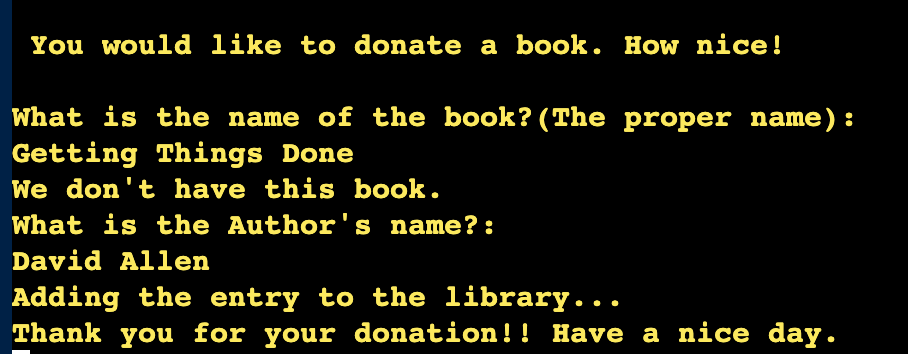
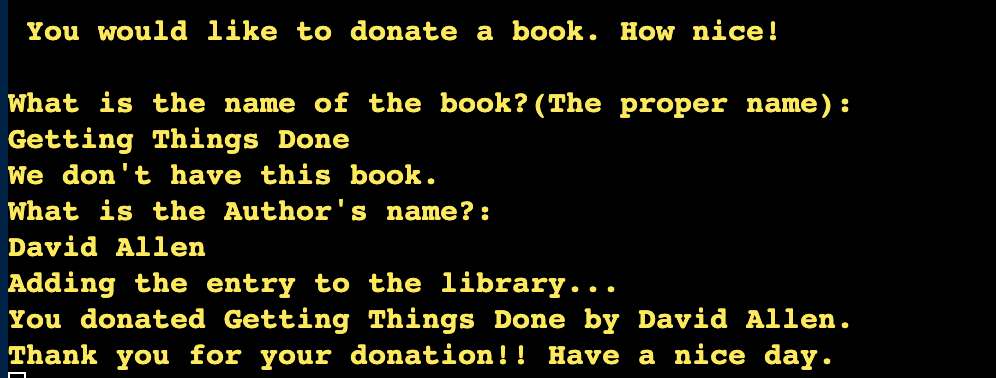
Update README photos and features.

Changed region(s): [[0.0, 0.0, 0.9559, 1.0]]

diff --git a/README.md b/README.md
@@ -60,6 +60,45 @@ The Bookkeeping service is a command line interface application that uses the He
   ### Flowchart
   ![Flowchart](/readme-images/bookkeeping.drawio%20.png)
   Flow of how the program runs.
+
+  ## Features 
+  ### General features 
+  <br>
+
+   The program starts with a welcome message. This area outlines what the service does and how the user can benefit from it. 
+  ![The welcome screen](/readme-images/welcome-screen.png)
+
+  <br>
+
+  The next section is where the user can decide what they would like to do. The user can either decide to view the book collection that already exists or they can choose to donate to the collection for others to see. 
+  ![Purpose of visit](/readme-images/purpose.png)
+
+    <br>
+
+  If the user decides to view the collection by pressing 1, the user is then taken to the collection where they can view all the books that are currently available. The user here can see the code to checkout the book of their choice, the name of the book, and the author of the book. The user has two options: To check out a book using the code or to leave the program. If they don't want to leave, the user then enters the code to checkout the book of their choice and then gets a confirmation of the book they checked out.
+  ![View the collection](/readme-images/collection.png)
+  ![View the collection and borrow a book](/readme-images/checkout.png)
+
+    <br>
+
+  If the user decides to donate instead of checking out a book, they are first asked to enter the name of the book they want to donate. This name is then used to search the google worksheet to see if it exists. If the book does not exist, the user is asked for the author's name and then the book is added to the collection. If the book does exist in the collection, the user is informed that the book exists and then has the option to view the collection or leave the program.
+  ![Donation section](/readme-images/donation.png)
+  ![Donation section but the book exists](/readme-images/donation-exists.png)
+
+
+  
+
+
+
+
+
+
+
+
+
+
+
+
   
 
  
